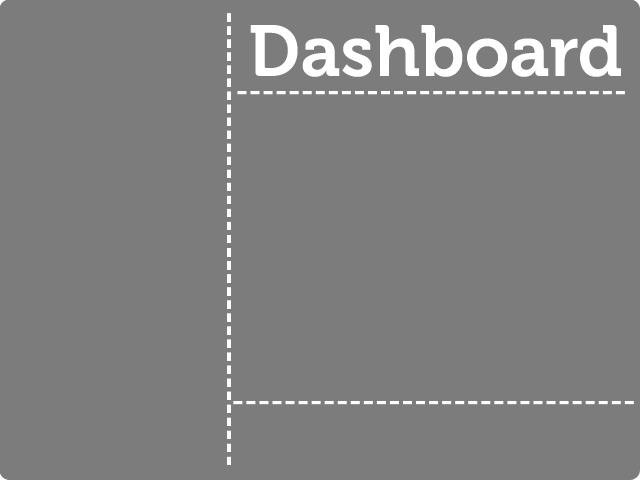
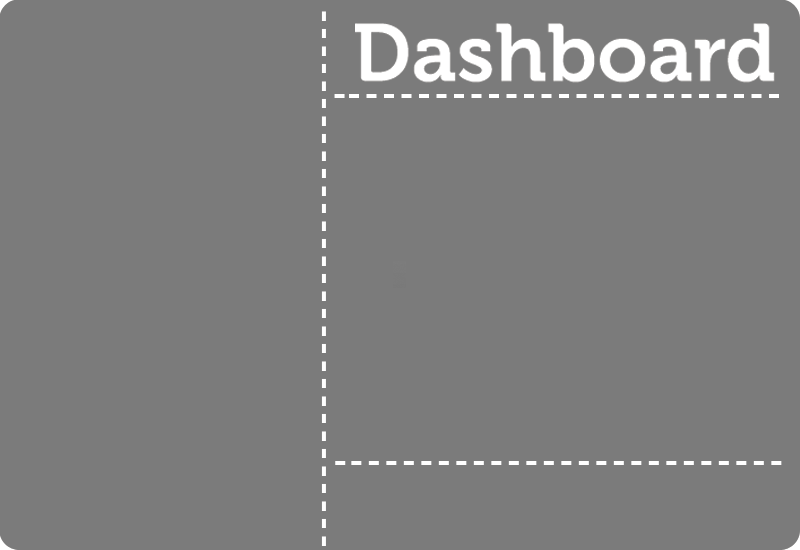
Panel BKG WIP

diff --git a/js/mylibs/com/studywiz/players/SequencePlayer.js b/js/mylibs/com/studywiz/players/SequencePlayer.js
@@ -61,6 +61,8 @@ var SequencePlayer = new Class({
     },
     // ----------------------------------------------------------
     _setupMedia : function() {
+        UIHelpers.setMainPanel("panel_loader");
+
         this._setupSequence(this.currentSequence);
         this.mediaLoader.options.next = 'Media.ready';
         this.mediaLoader.start(true);
@@ -91,15 +93,14 @@ var SequencePlayer = new Class({
                     step.media.image.add(myContainerID);
                     // TODO: adjust style based on TAC
                     //step.media.image.show();
-                    var moduleTitle = new Element("h1", {
+                   /* var moduleTitle = new Element("h1", {
                         html : this.moduleInfo.moduleTitle,
                         'class' : 'main-title no-select'
                     });
                     moduleTitle.inject(myDiv);
+                    */
 
-                    //TODO: extract to separate method
-                    $m(Main.DIV_ID).removeAttribute('class');
-                    $m(Main.DIV_ID).addClass("title_panel");
+                    UIHelpers.setMainPanel("panel_dashboard");
 
                     step.data.style = {
                         left : '10px',
@@ -112,19 +113,19 @@ var SequencePlayer = new Class({
                     var score = new Element("h2", {
                         html : "Overall score: " + (100 * Main.userTracker.getTotalScore()).toInt() + "/100",
                         styles : {
+                            
                             'position' : 'absolute',
-                            left : '390px',
-                            top : '30px'
+                            left : '45%',
+                            top : '90%'
                         },
+                        'id' : 'overall_score',
                         'class' : 'no-select'
                     });
                     score.inject(myDiv);
                     break;
                 case "SequenceIntro":
 
-                    //TODO: extract to separate method
-                    $m(Main.DIV_ID).removeAttribute('class');
-                    $m(Main.DIV_ID).addClass("title_panel_kaps");
+                    UIHelpers.setMainPanel("panel_kaps");
 
                     log("From Menu:", this.fromMenu);
                     this.fromMenu = false;
@@ -141,7 +142,7 @@ var SequencePlayer = new Class({
                     step.media.previewImage.add(myContainerID);
                     step.media.previewImage.show();
 
-                    var moduleTitle = new Element("h1", {
+                   var moduleTitle = new Element("h1", {
                         html : this.moduleInfo.moduleTitle,
                         styles : {
                             left : '0px',
@@ -150,6 +151,7 @@ var SequencePlayer = new Class({
                         'class' : 'module-title no-select'
                     });
                     moduleTitle.inject(myDiv);
+                   
 
                     var moduleProgress = Main.userTracker.getModuleProgress(this.moduleInfo.moduleID);
                     var sequenceTitleText = "Exercise " + this.sequenceState.id + " of " + moduleProgress.total;
@@ -192,6 +194,8 @@ var SequencePlayer = new Class({
                     step.media.audio.start();
                     break;
                 case "ModuleIntro":
+                    // TODO: cssID from module
+                    UIHelpers.setMainPanel("panel_kaps");
                     this._moduleIntroSetup(step);
                     break;
                 case "CommentaryIntro":
@@ -1379,9 +1383,6 @@ var SequencePlayer = new Class({
         };
     }.protect(),
     _moduleIntroSetup : function(step) {
-        //TODO: extract to separate method
-        $m(Main.DIV_ID).removeAttribute('class');
-        $m(Main.DIV_ID).addClass("title_panel_kaps");
 
         log("From Menu: ", this.fromMenu);
         var myContainerID = 'SequenceIntro.container';

diff --git a/css/common.css b/css/common.css
@@ -29,3 +29,25 @@ h2 {
 	font-weight: normal;
 	margin: 0;
 }
+.panel_loader {
+	background: url('images/loader_bkg.png');
+	background-repeat: no-repeat;
+	background-size: 100% 100%;
+	background-origin: content-box;
+	background-attachment: scroll;
+}
+.panel_dashboard {
+	background: url('images/dashboard_bkg.png');
+	background-repeat: no-repeat;
+	background-size: 100% 100%;
+	background-origin: content-box;
+	background-attachment: scroll;
+}
+
+.panel_kaps {
+	background: url('images/kaps_bkg.png');
+	background-repeat: no-repeat;
+	background-size: 100% 100%;
+	background-origin: content-box;
+	background-attachment: scroll;
+}

diff --git a/css/main_menu.css b/css/main_menu.css
@@ -61,19 +61,4 @@
 	text-align: left;
 }
 
-.title_panel {
-	background: url('images/dashboard_bkg.png');
-	background-repeat: no-repeat;
-	background-size: 100% 100%;
-	background-origin: content-box;
-	background-attachment: scroll;
-}
-
-.title_panel_kaps {
-	background: url('images/kaps_bkg.png');
-	background-repeat: no-repeat;
-	background-size: 100% 100%;
-	background-origin: content-box;
-	background-attachment: scroll;
-}
 

diff --git a/js/mylibs/com/studywiz/ui/uiHelpers.js b/js/mylibs/com/studywiz/ui/uiHelpers.js
@@ -54,3 +54,8 @@ UIHelpers.moduleProgressSetup = function(moduleID) {
     });
     return progress;
 };
+
+UIHelpers.setMainPanel = function(cssClassName) {
+    $m(Main.DIV_ID).removeAttribute('class');
+    $m(Main.DIV_ID).addClass(cssClassName);
+};
